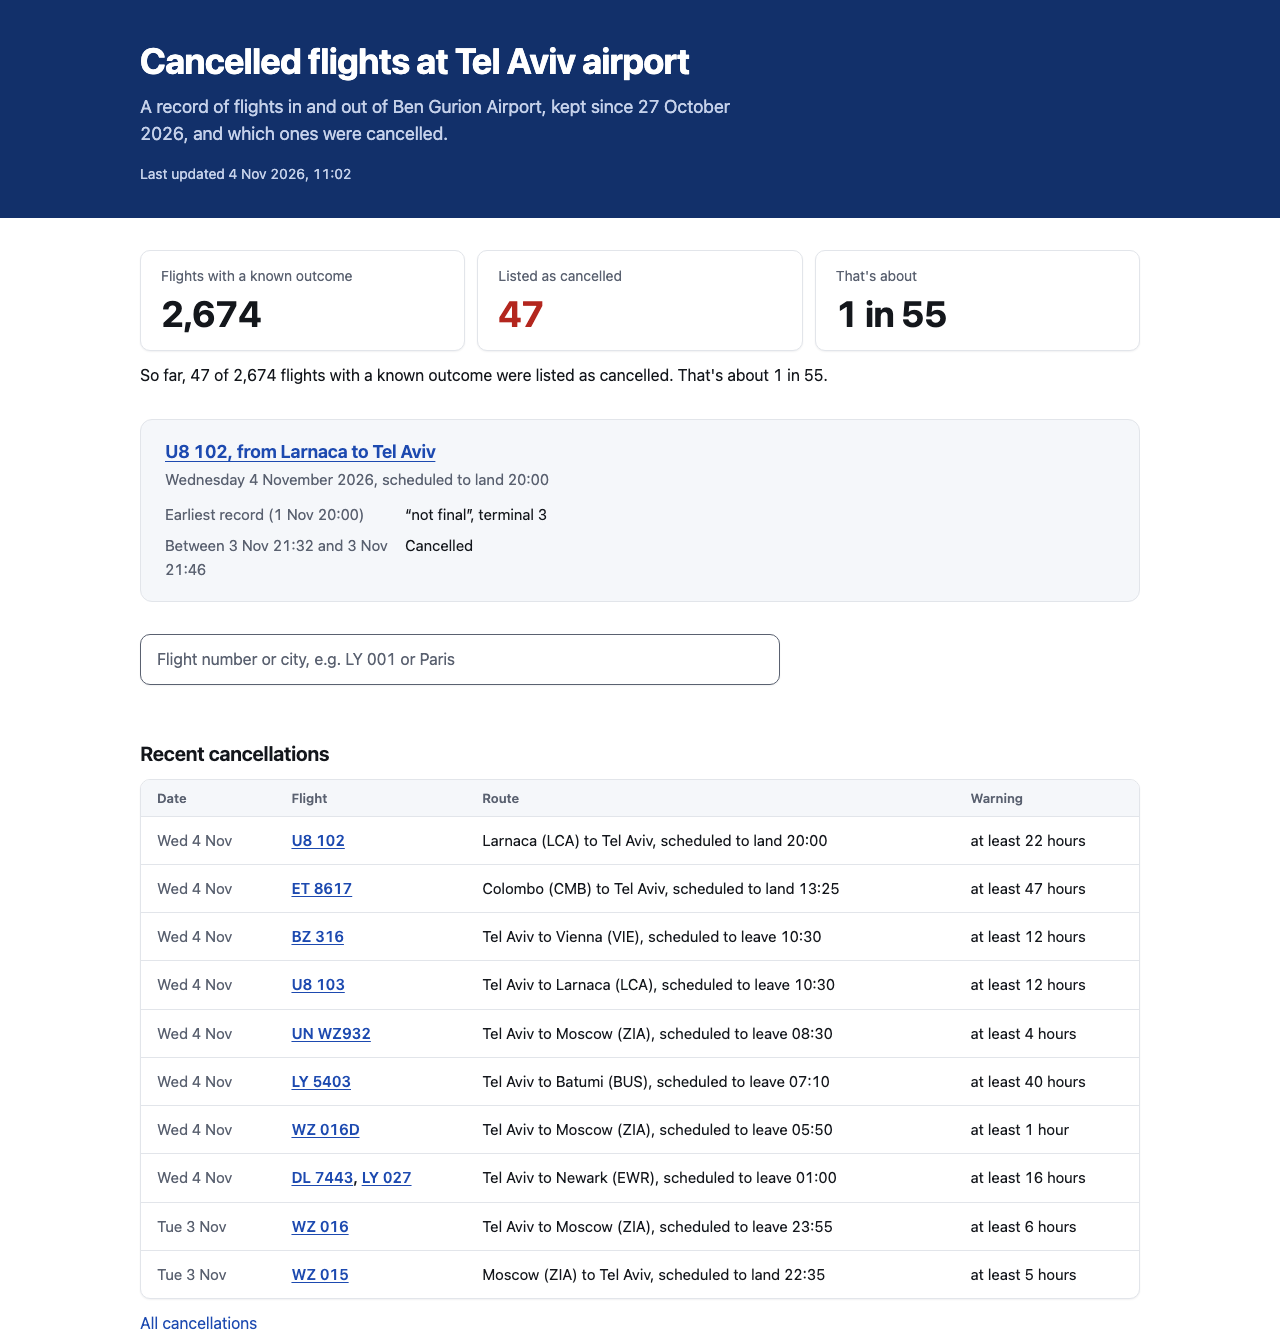
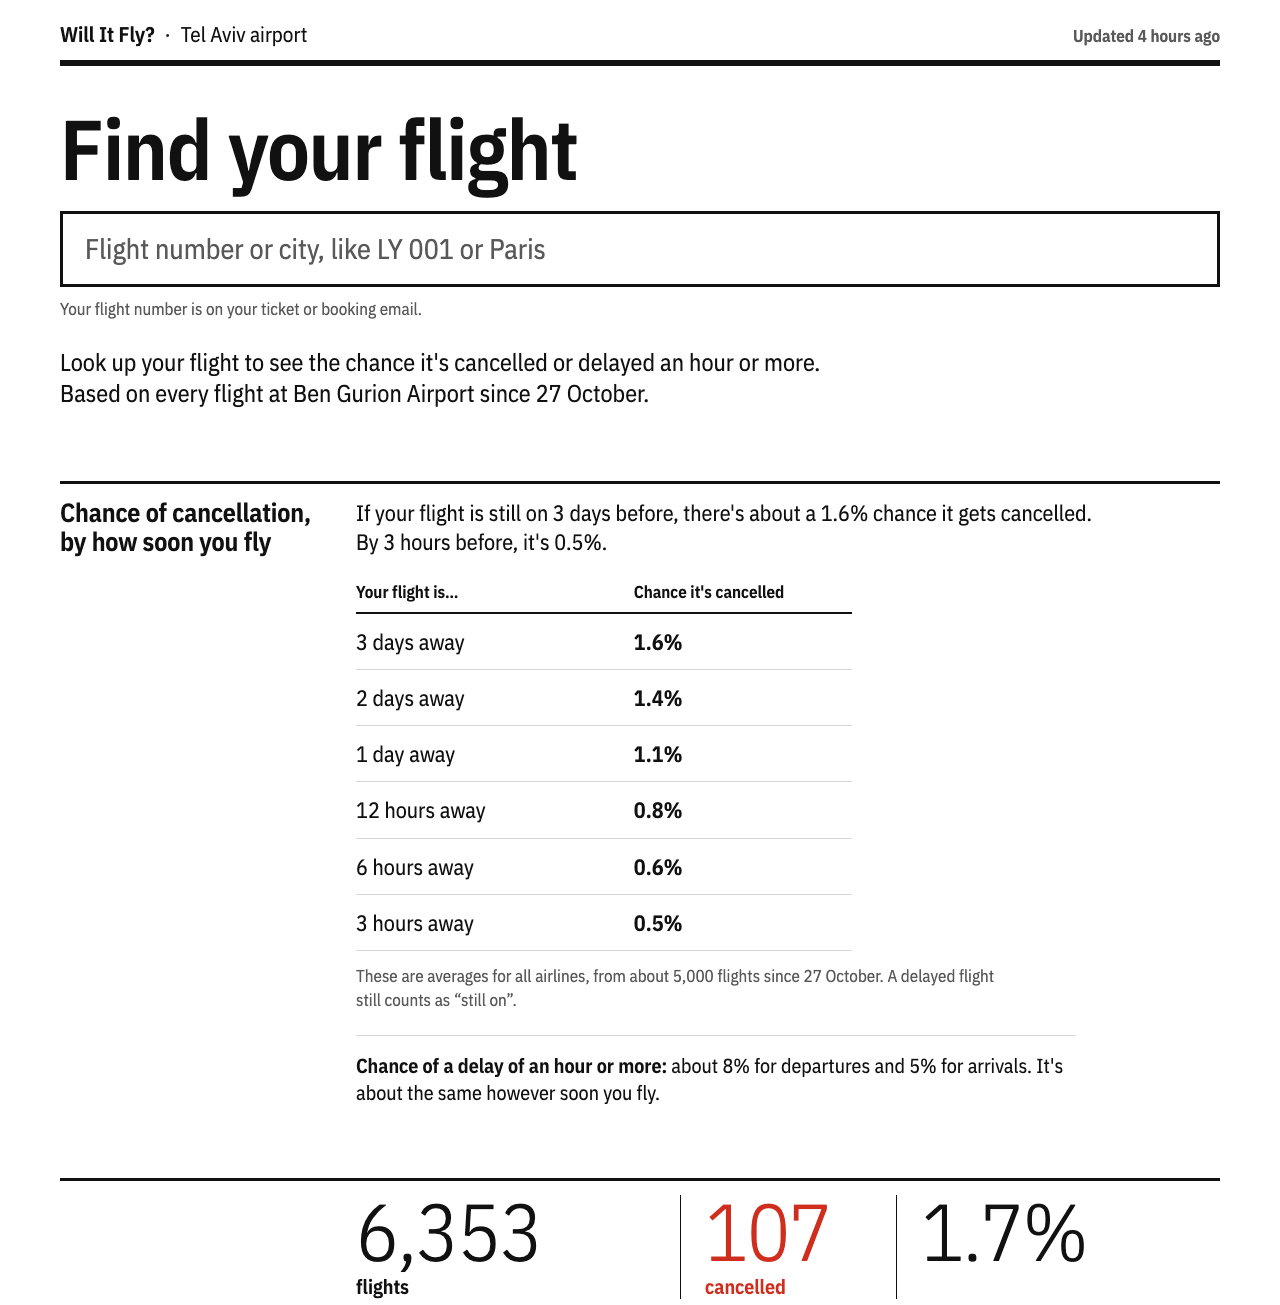
README: the front page and BZ 317's page from the live "Will It Fly?" site (18 November 2026)
Taken from https://dt4564wsgvijr.cloudfront.net after the q27 upload, with headless Chrome
under a throwaway profile, light scheme, 1,280 px wide, cropped to the top of each page
(1,305 and 975 px). Alt text rewritten for the new pages; every figure in it is read off
the image.

diff --git a/README.md b/README.md
@@ -10,11 +10,11 @@ Keeps the history of the Ben Gurion airport flight board, which overwrites itsel
 
 Built by Doron Reiffman ([LinkedIn](https://www.linkedin.com/in/doronreiffman)).
 
-![The history site's front page: a deep-blue header; three tiles reading 2,674 flights with a known outcome, 47 listed as cancelled, about 1 in 55; one cancellation, U8 102 from Larnaca, with the time of the change shown as a range; a search box and the recent cancellations, each with its warning as a lower bound.](docs/img/front-page.png)
+![The front page of Will It Fly?: "Find your flight" over a search box for a flight number or city; the chance of cancellation by how soon you fly, for all airlines, from 1.6% three days away down to 0.5% three hours away, and about 8% of departures and 5% of arrivals delayed an hour or more; then the total since 27 October: 6,353 flights, 107 cancelled, 1.7%.](docs/img/front-page.png)
 
-![The page for flight BZ 317 from Vienna: landed on 28 October and 2 November; the 1 November flight listed as cancelled, with at least 27 hours' warning and the time of the change shown as a range; two flights upcoming.](docs/img/timeline.png)
+![The page for BZ 317 from Vienna: its flight on Wednesday 18 November, scheduled to land at 19:15, with "Chance it's cancelled: about 4%" and "Chance it's delayed an hour or more: about 17%", worked out mostly from Bluebird Airways' history because BZ 317 has only 12 flights so far; then its record so far (12 flights, 1 cancelled, 3 delayed an hour or more) and its days as a strip: 11 landed, 1 cancelled, 2 upcoming.](docs/img/timeline.png)
 
-*The front page and one flight's page, as of 4 November 2026.*
+*The front page and one flight's page, as uploaded on 18 November 2026.*
 
 ## At a glance
 
